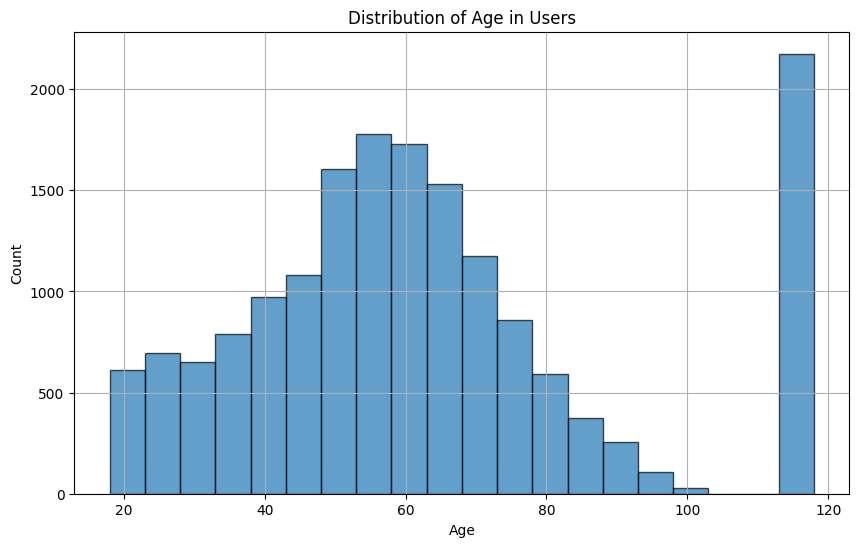
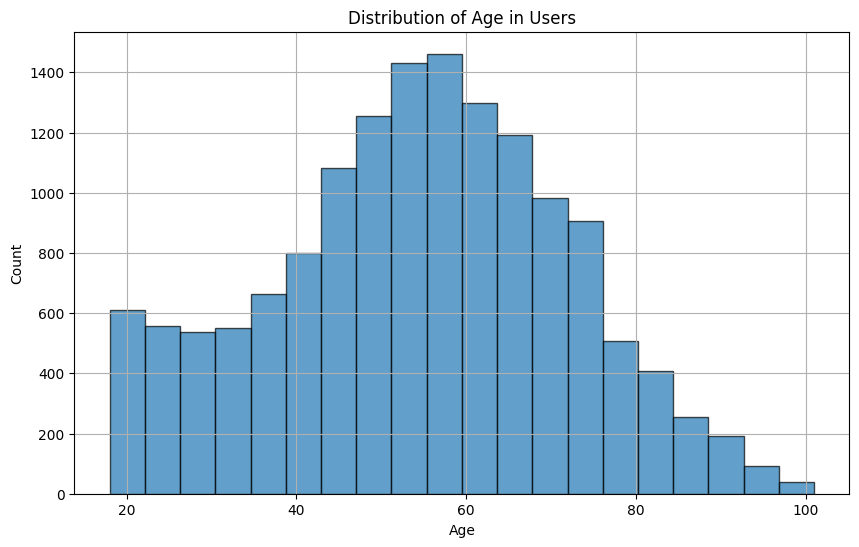
Updating post to see how the changes look

diff --git a/docs/_posts/2025-04-02-Project-4.md b/docs/_posts/2025-04-02-Project-4.md
@@ -47,19 +47,25 @@ In terms of difficulty, most were $10 and under for the minimum spend, but there
 
 Additionally, the duration for most was 7 days or less, with two offers having a duration of 10 days.
 
-### Profile
+#### Profile
 
-The profile dataset has 17,000 customers. Each customer had: the ID for the customer; an age (with missing value encoded as 118); the date the customer became a member on; a gender (values could be M, F, O, or null); and the customer income.
+The profile dataset has 17,000 customers. Each customer has: the ID for the customer; an age (with missing value encoded as 118); the date the customer became a member on; a gender (values could be M, F, O, or null); and the customer income.
 
-There were about 13% of users that did not have gender, age, or income information. About 50% of the dataset has a gender of M, 36% has a gender of F, and 1% has a gender of O. For the remaining demographics, I created grouping columns for the user tenure (whole years based on how long before 2019-01-01 they had become a member), user age groups, and user income groups. The results for those groupings are down below.
+There were about 13% of users that did not have gender, age, or income information. About 50% of the dataset has a gender of M, 36% has a gender of F, and 1% has a gender of O.
 
-Another thing to note is that users of age 45+ make up most of the dataset, with 65+ making up 25% of the dataset, the biggest group of people.
+<img src="{{site.url}}/images/demographics_user_gender.png">
+
+The median user age is 55 years, ignoring the ages of 118 since they are meant to be null. By looking at the histogram of user ages, we can see that the data is slightly right skewed.
+
+<img src="{{site.url}}/images/demographics_user_age_hist.png”>
+
+In order to allow for analysis of the ages, I created groups in what seems to be the standard for studies looking at ages. I started with the 18-24 group, then incremented by 10 years until 65, which I then group the rest above 65. By grouping the users this way, users of age 45+ make up most of the dataset, with 65+ making up 25% of the dataset, the biggest group of people.
 
 <img src="{{site.url}}/images/demographics_user_age_group.png">
 
-When looking at the users by gender, Male makes up most of the customers with almost 50%. The next group is Female which accounts for 36% of the users. Almost 13% of the users are
+For the remaining demographics, I created grouping columns for the user tenure (whole years based on how long before 2019-01-01 they had become a member), user age groups, and user income groups. The results for those groupings are down below.
 
-<img src="{{site.url}}/images/demographics_user_gender.png">
+
 
 <img src="{{site.url}}/images/demographics_user_income_group.png">
 
@@ -108,5 +114,3 @@ When looking at these aggregations, discount offers tend to have a higher comple
 ## Conclusion
 
 Analyzing this data was tricky due to the little things that needed to be fixed with the data and then trying to piece back together the order of customer interactions in order to figure out if they seemed to be influenced by the offer they received. As an improvement, I think it would be worthwhile to analyze the effect there was on transactions. This proved a little too tricky for me since there are more transactions than received offers.
-
-
